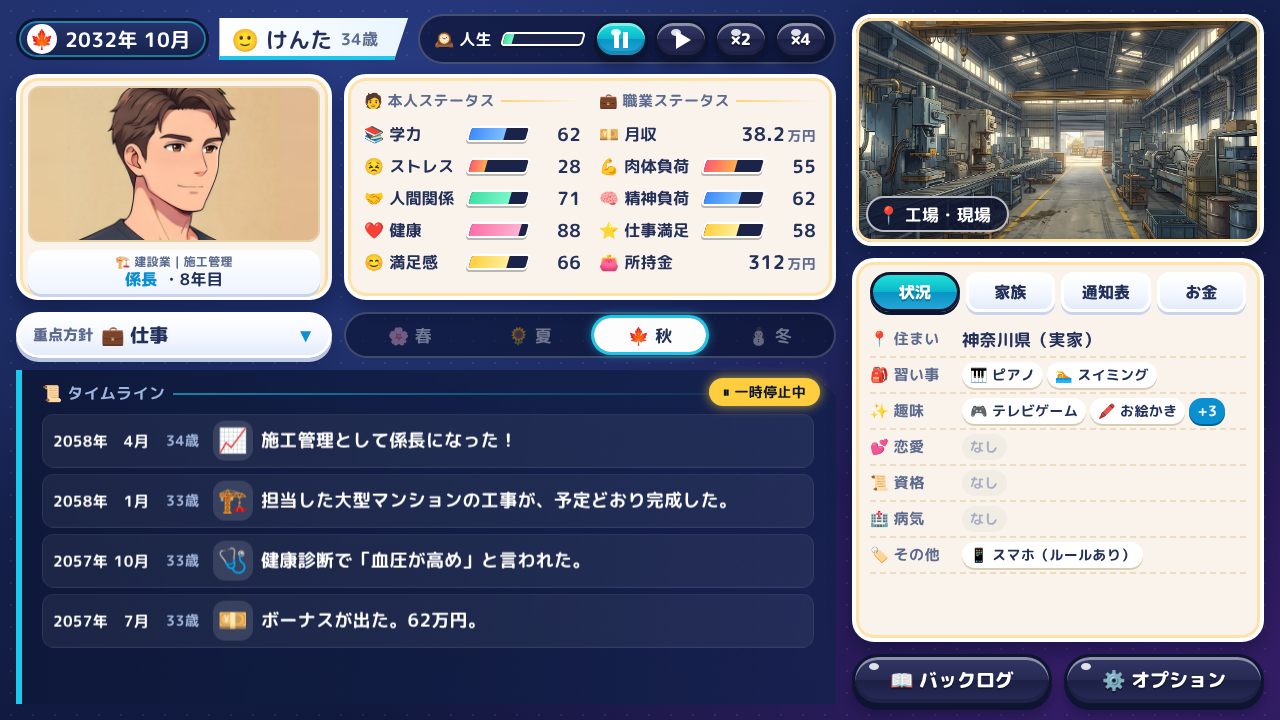
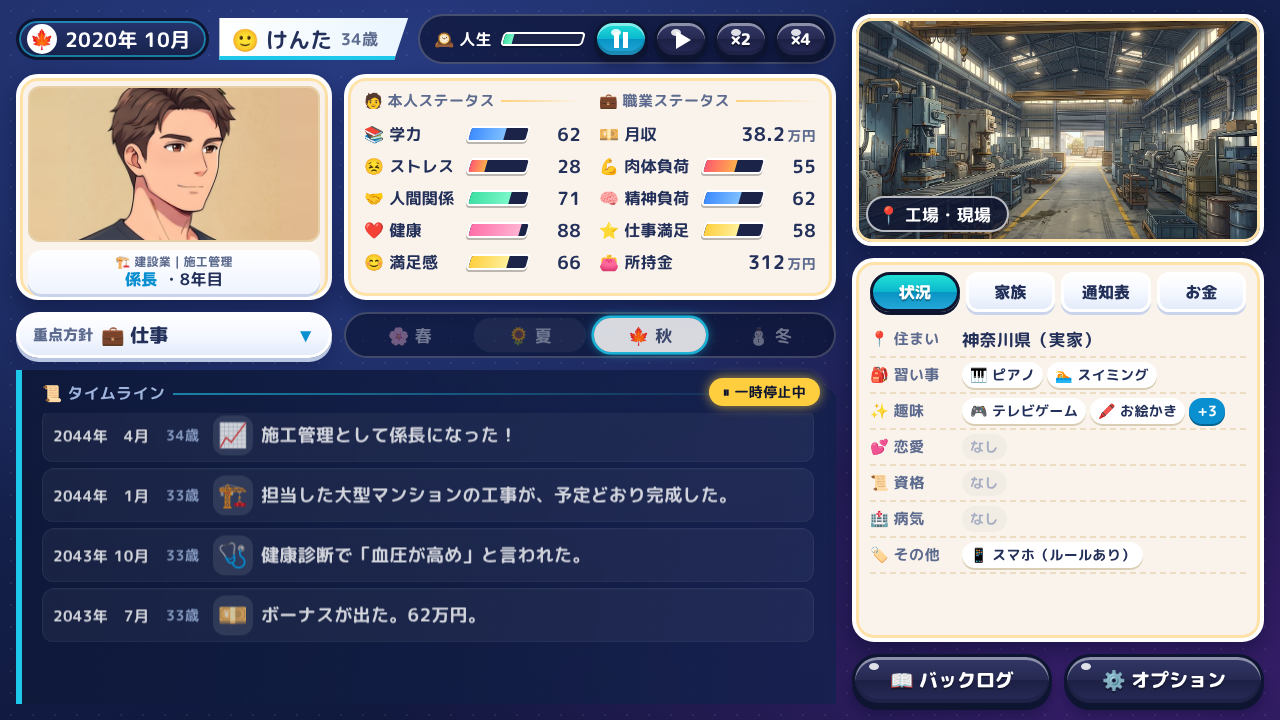
Start the game in 2010 and add world events and AI job displacement
Real events (3.11 with a small Tohoku income hit, COVID) are text-only; from
2035 high-risk jobs (NRI 2015, WEF 2025) trigger restructuring and drop out of
job menus.

Claude-Session: https://claude.ai/code/session_014jpFHFwaTKn7m7KqBEwBuE

diff --git a/tools/validate.js b/tools/validate.js
@@ -8,7 +8,7 @@ const path = require('path');
 const D = (f) => JSON.parse(fs.readFileSync(path.join(__dirname, '..', 'data', f), 'utf8'));
 
 const flagsDoc = D('flags.json');
-const files = ['events_mandatory.json', 'events_random.json', 'events_flow.json'];
+const files = ['events_mandatory.json', 'events_random.json', 'events_flow.json', 'events_world.json'];
 const eventsByFile = Object.fromEntries(files.map((f) => [f, D(f).events]));
 const schools = D('schools.json');
 const jobs = D('jobs.json');
@@ -244,6 +244,11 @@ for (const t of ranks.tracks) for (const j of t.jobs) { if (!JOB_IDS.has(j)) err
 for (const j of ranks.noRank.jobs) { if (ranked.has(j)) err('ranks.noRank', `「${j}」は track にもある`); ranked.set(j, 'none'); }
 for (const j of jobs.jobs) if (!ranked.has(j.id)) err('ranks', `「${j.id}」の出世のはしごがない（noRank にも入っていない）`);
 for (const c of new Set(jobs.jobs.map((j) => j.cat))) if (!ranks.industry[c]) err('ranks.industry', `業界名がない「${c}」`);
+const ai = D('ai_impact.json');
+const aiSrc = new Set(ai.sources.map((x) => x.id));
+for (const j of jobs.jobs) { const r = ai.jobs[j.id]; if (!r) { err('ai_impact', `「${j.id}」のAI影響度がない`); continue; } if (!(r.risk >= 0 && r.risk <= 1)) err('ai_impact.' + j.id, 'risk は0〜1'); (r.src || []).forEach((x) => { if (!aiSrc.has(x)) err('ai_impact.' + j.id, `未定義の出典「${x}」`); }); }
+for (const id of Object.keys(ai.jobs)) if (!JOB_IDS.has(id)) err('ai_impact', `未定義の職業「${id}」`);
+ai.rules.growthJobs.forEach((j) => { if (!JOB_IDS.has(j)) err('ai_impact.growthJobs', `未定義の職業「${j}」`); });
 for (let a = 0; a <= 120; a++) if (vis.portraits.ages.filter((p) => a >= p.from && a <= p.to).length !== 1) err('visuals.portraits', `${a}歳の顔グラが0枚または重複`);
 for (const g of ps.graduate) if (g.requires) { checkFlags(`graduate.${g.id}`, g.requires); if (g.stage === 'grad_doctor' && !g.requires.includes('edu_master_grad')) err(`graduate.${g.id}`, 'I-8違反：博士は修士修了が必要'); }
 for (const c of [...clubs.lessons, ...clubs.jhsClubs, ...clubs.hsClubsExtra, ...clubs.univCircles]) {
@@ -281,7 +286,7 @@ for (const f of FLAGS) if (!setSomewhere.has(f) && !used.has(f)) warn('未使用
 const count = (f) => eventsByFile[f].length;
 const choiceN = allEvents.filter((e) => e.kind === 'choice').length;
 console.log('=== まなびライフ データ検証 ===');
-console.log(`イベント: 必須 ${count('events_mandatory.json')} / ランダム ${count('events_random.json')} / 流れる ${count('events_flow.json')}（選択肢あり ${choiceN}）`);
+console.log(`イベント: 必須 ${count('events_mandatory.json')} / ランダム ${count('events_random.json')} / 流れる ${count('events_flow.json')} / 世の中 ${count('events_world.json')}（選択肢あり ${choiceN}）`);
 console.log(`フラグ ${FLAGS.size} / 職業 ${jobs.jobs.length} / バイト ${jobs.partTimeJobs.length} / 学校テンプレ ${SCHOOL_IDS.size} / 学部 ${DEPT_IDS.size} / 部活・習い事・サークル ${CLUB_IDS.size} / 資格 ${QUAL_IDS.size} / 都道府県 ${prefs.prefectures.length}（人口計 ${popSum}万）`);
 warns.forEach((w) => console.log(w));
 errors.forEach((e) => console.log(e));

diff --git a/ui/mock.html b/ui/mock.html
@@ -187,7 +187,7 @@ button:active{transform:translateY(3px) scale(.98)}
 <div id="stage">
 
   <div id="head">
-    <div class="date"><span class="ssn" id="ssnIc">🌸</span><span id="date">2032年 4月</span></div>
+    <div class="date"><span class="ssn" id="ssnIc">🌸</span><span id="date">2020年 4月</span></div>
     <div class="pname">🙂 さくら <small id="age">10歳</small></div>
     <div class="ctrl"><span class="lb2">🕰 人生</span><span class="bar c-mint lifebar"><i id="lifebar" style="--w:12%"></i></span>
     <div id="speed">
@@ -286,7 +286,7 @@ button:active{transform:translateY(3px) scale(.98)}
       <div class="cs">🧑🏫 先生と親からの提案</div>
       <div class="top">
         <div class="who">🎯</div>
-        <div><div class="ttl">2037年 10月 ・ 中学3年生</div><div class="txt">三者面談。成績と家計に合わせて、志望校の候補を出してもらった。どこを受ける？</div></div>
+        <div><div class="ttl">2024年 10月 ・ 中学3年生</div><div class="txt">三者面談。成績と家計に合わせて、志望校の候補を出してもらった。どこを受ける？</div></div>
       </div>
       <div class="opts" id="opts"></div>
       <div class="pager" id="pager"><i class="on"></i><i></i><i></i></div>
@@ -346,7 +346,7 @@ const demo=[
   ['🏫','いよいよ5年生。クラスがえで仲のいい子と別のクラスに。'],
   ['🎯','中3の秋。三者面談で志望校を決める時期が来た。','big'],
 ];
-let y=2032,q=0,i=0,age=10;
+let y=2020,q=0,i=0,age=10;
 const feed=document.getElementById('feed');
 function post(e,t,kind){
   const d=document.createElement('div');d.className='post'+(kind?' '+kind:'');

diff --git a/tools/catalog.js b/tools/catalog.js
@@ -34,13 +34,14 @@ const sections = [
   ['events_mandatory.json', '必須イベント（条件を満たすと必ず起こる）'],
   ['events_random.json', 'ランダム選択肢イベント'],
   ['events_flow.json', '流れるだけイベント'],
+  ['events_world.json', '世の中の出来事（2010年スタート）'],
 ];
 for (const [f, title] of sections) {
   const evs = load(f);
   md += `## ${title}（${evs.length}件）\n\n| | ID | 時期 | 条件 | 文章 | 選択肢 |\n|---|---|---|---|---|---|\n`;
   for (const e of evs) {
     const w = e.when || {};
-    const when = [age(w), season(w), e.risk ? `確率:${e.risk}` : ''].filter(Boolean).join(' ');
+    const when = [w.date || '', age(w), season(w), e.risk ? `確率:${e.risk}` : ''].filter(Boolean).join(' ');
     const text = e.text || (e.success && e.success.text) || '';
     md += `| ${e.emoji || ''} | \`${e.id}\` | ${esc(when)} | ${esc(cond(w))} | ${esc(text)} | ${esc(choices(e))} |\n`;
   }

diff --git a/docs/10-event-catalog.md b/docs/10-event-catalog.md
@@ -244,3 +244,19 @@
 | ☕ | `ev_f_daily_adult` | 22〜64歳 |  | {adultDaily} |  |
 | 🍵 | `ev_f_daily_senior` | 65〜105歳 |  | {seniorDaily} |  |
 
+## 世の中の出来事（2010年スタート）（11件）
+
+| | ID | 時期 | 条件 | 文章 | 選択肢 |
+|---|---|---|---|---|---|
+| 🌊 | `ev_w_311` | 2011-03 |  | 東日本大震災が起きた。テレビでは、津波の映像が何度も流れた。（{name}はまだ赤ちゃんだった） |  |
+| 😷 | `ev_w_covid` | 2020-04 |  | 新型コロナウイルスが世界中に広がり、緊急事態宣言が出た。学校は休校になり、家でオンライン授業を受けた。 |  |
+| 🏅 | `ev_w_olympics` | 2021-07 |  | 1年おくれで、東京オリンピック・パラリンピックが開かれた。会場にお客さんは入れなかった。 |  |
+| 🙂 | `ev_w_covid_end` | 2023-05 |  | 新型コロナが季節性インフルエンザと同じあつかいになった。マスクを外す人が少しずつ増えてきた。 |  |
+| 🏚 | `ev_w_noto` | 2024-01 |  | 元日に、能登半島で大きな地震が起きた。 |  |
+| 🌐 | `ev_w_expo` | 2025-04 |  | 大阪・関西万博が開幕した。空飛ぶクルマのデモ飛行がニュースになった。 |  |
+| 🤖 | `ev_w_ai_dawn` | 2035-04 |  | （ゲームの中の未来）AIが人と同じように考え、仕事をこなす時代がやってきた。ニュースでは毎日のように『AIに置きかわる仕事』が話題になっている。 |  |
+| 🚘 | `ev_w_auto_drive` | 2038-04 |  | （ゲームの中の未来）運転手のいない自動運転タクシーが、街を走りはじめた。 |  |
+| 🤖 | `ev_w_ai_restructure` | 確率:aiRestructure | 雇用:seishain/keiyaku/haken/part/civil_servant | （ゲームの中の未来）会社がAIを導入し、{jobLabel}の仕事の多くが自動化された。{name}の部署はなくなることになった。 | 🔄 会社の中の別の部署に移る（学び直しが必要）<br>［候補リスト:jobs.midCareer］<br>🏫 職業訓練でスキルを学び直す（半年・無料）<br>🌴 早期退職に応じる（退職金が上乗せ） |
+| 📉 | `ev_w_ai_pressure` |  | 雇用:seishain/keiyaku/haken/part/civil_servant/freelance | （ゲームの中の未来）AIのおかげで{jobLabel}の仕事は速くなった。でも、そのぶん給料は上がりにくくなった。 |  |
+| 📈 | `ev_w_ai_growth` |  |  | （ゲームの中の未来）AIを使いこなせる人の取り合いになり、{jobLabel}の給料が上がった。 |  |
+

diff --git a/docs/09-engine-state-flags.md b/docs/09-engine-state-flags.md
@@ -148,6 +148,7 @@ subj.X = clamp(subj.X + 伸び − 忘却, 1, 99)
 
 ## 4. 誕生時の生成（家族と環境）
 
+0. **生まれた年**：**2010年で固定**（2020年に10歳、2030年に20歳）。世の中の出来事（東日本大震災・コロナ・AIの時代）は `data/events_world.json`、AIによる仕事の置きかわりは `data/ai_impact.json`
 1. **都道府県**：人口比で抽選（`data/prefectures.json` の population 比）。神奈川が出やすく鳥取は出にくい、が自然に起きる
 2. **性別**：男女 51:49（出生性比）。※恋愛・結婚・出産の相手判定に使う。プレイヤーの性別による職業制限は**設けない**
 3. **家庭の裕福さ** `familyWealth`：都道府県の世帯所得係数で補正した分布から抽選 → 世帯年収帯
